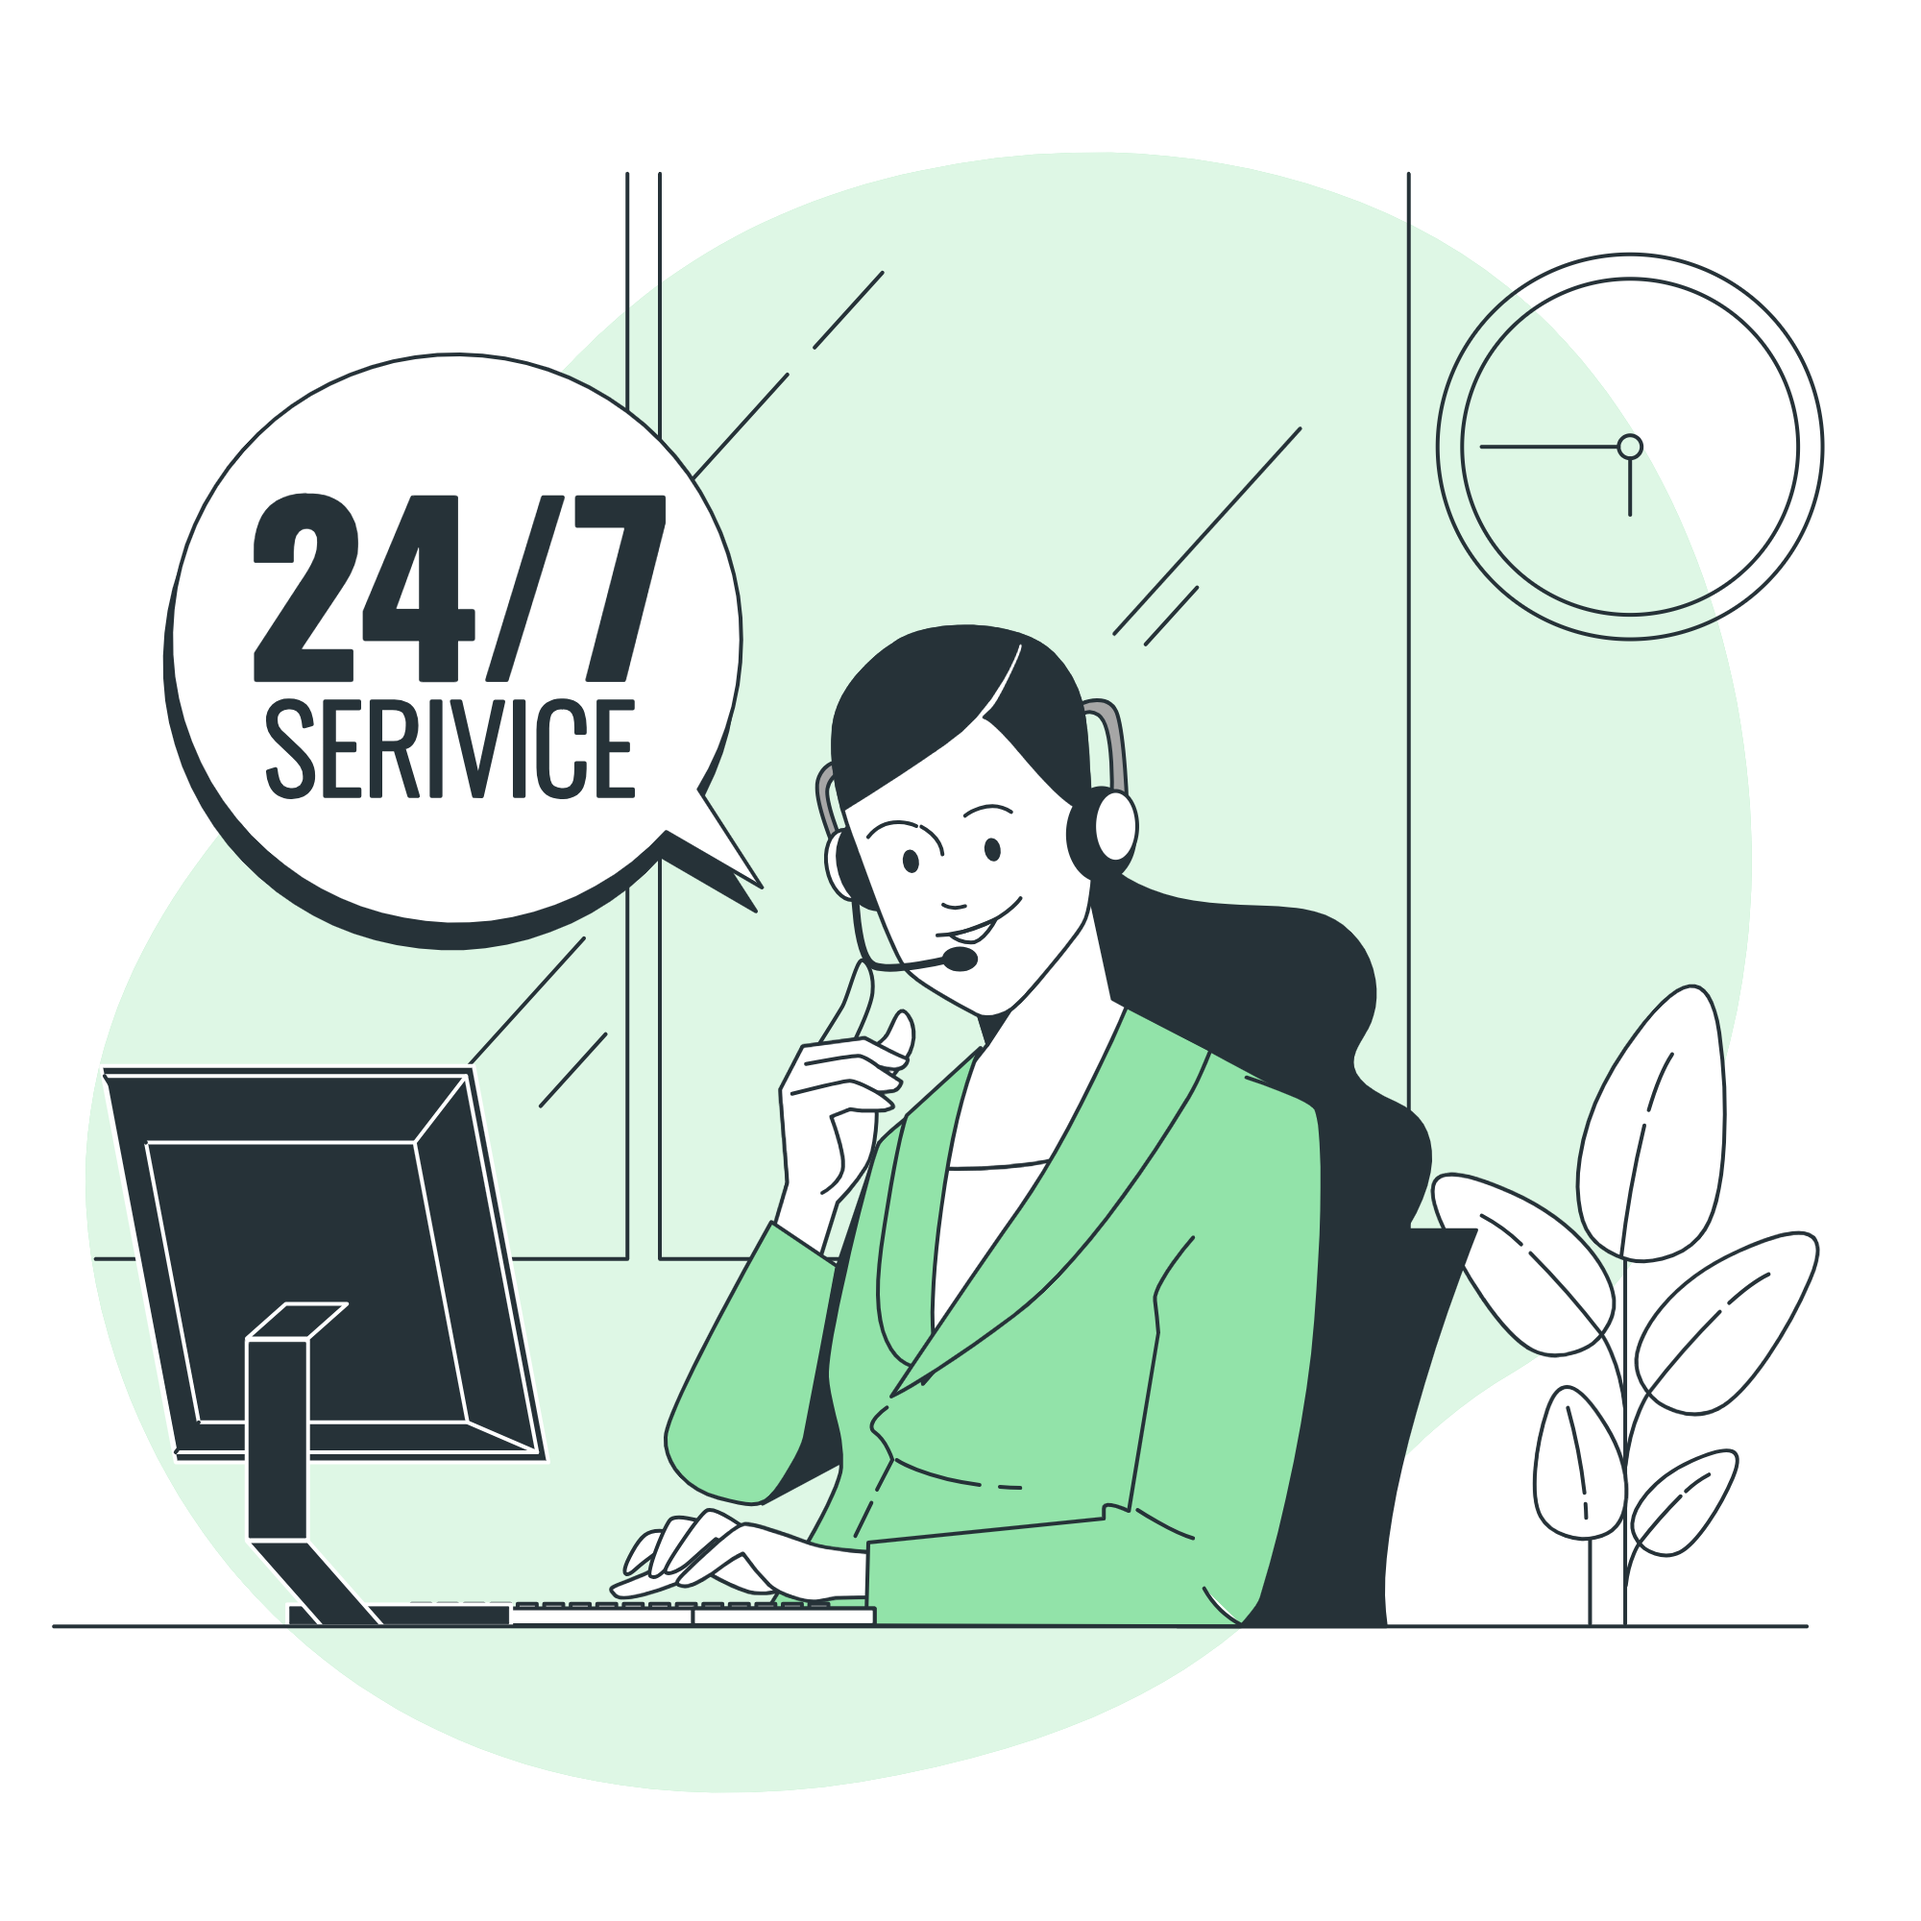
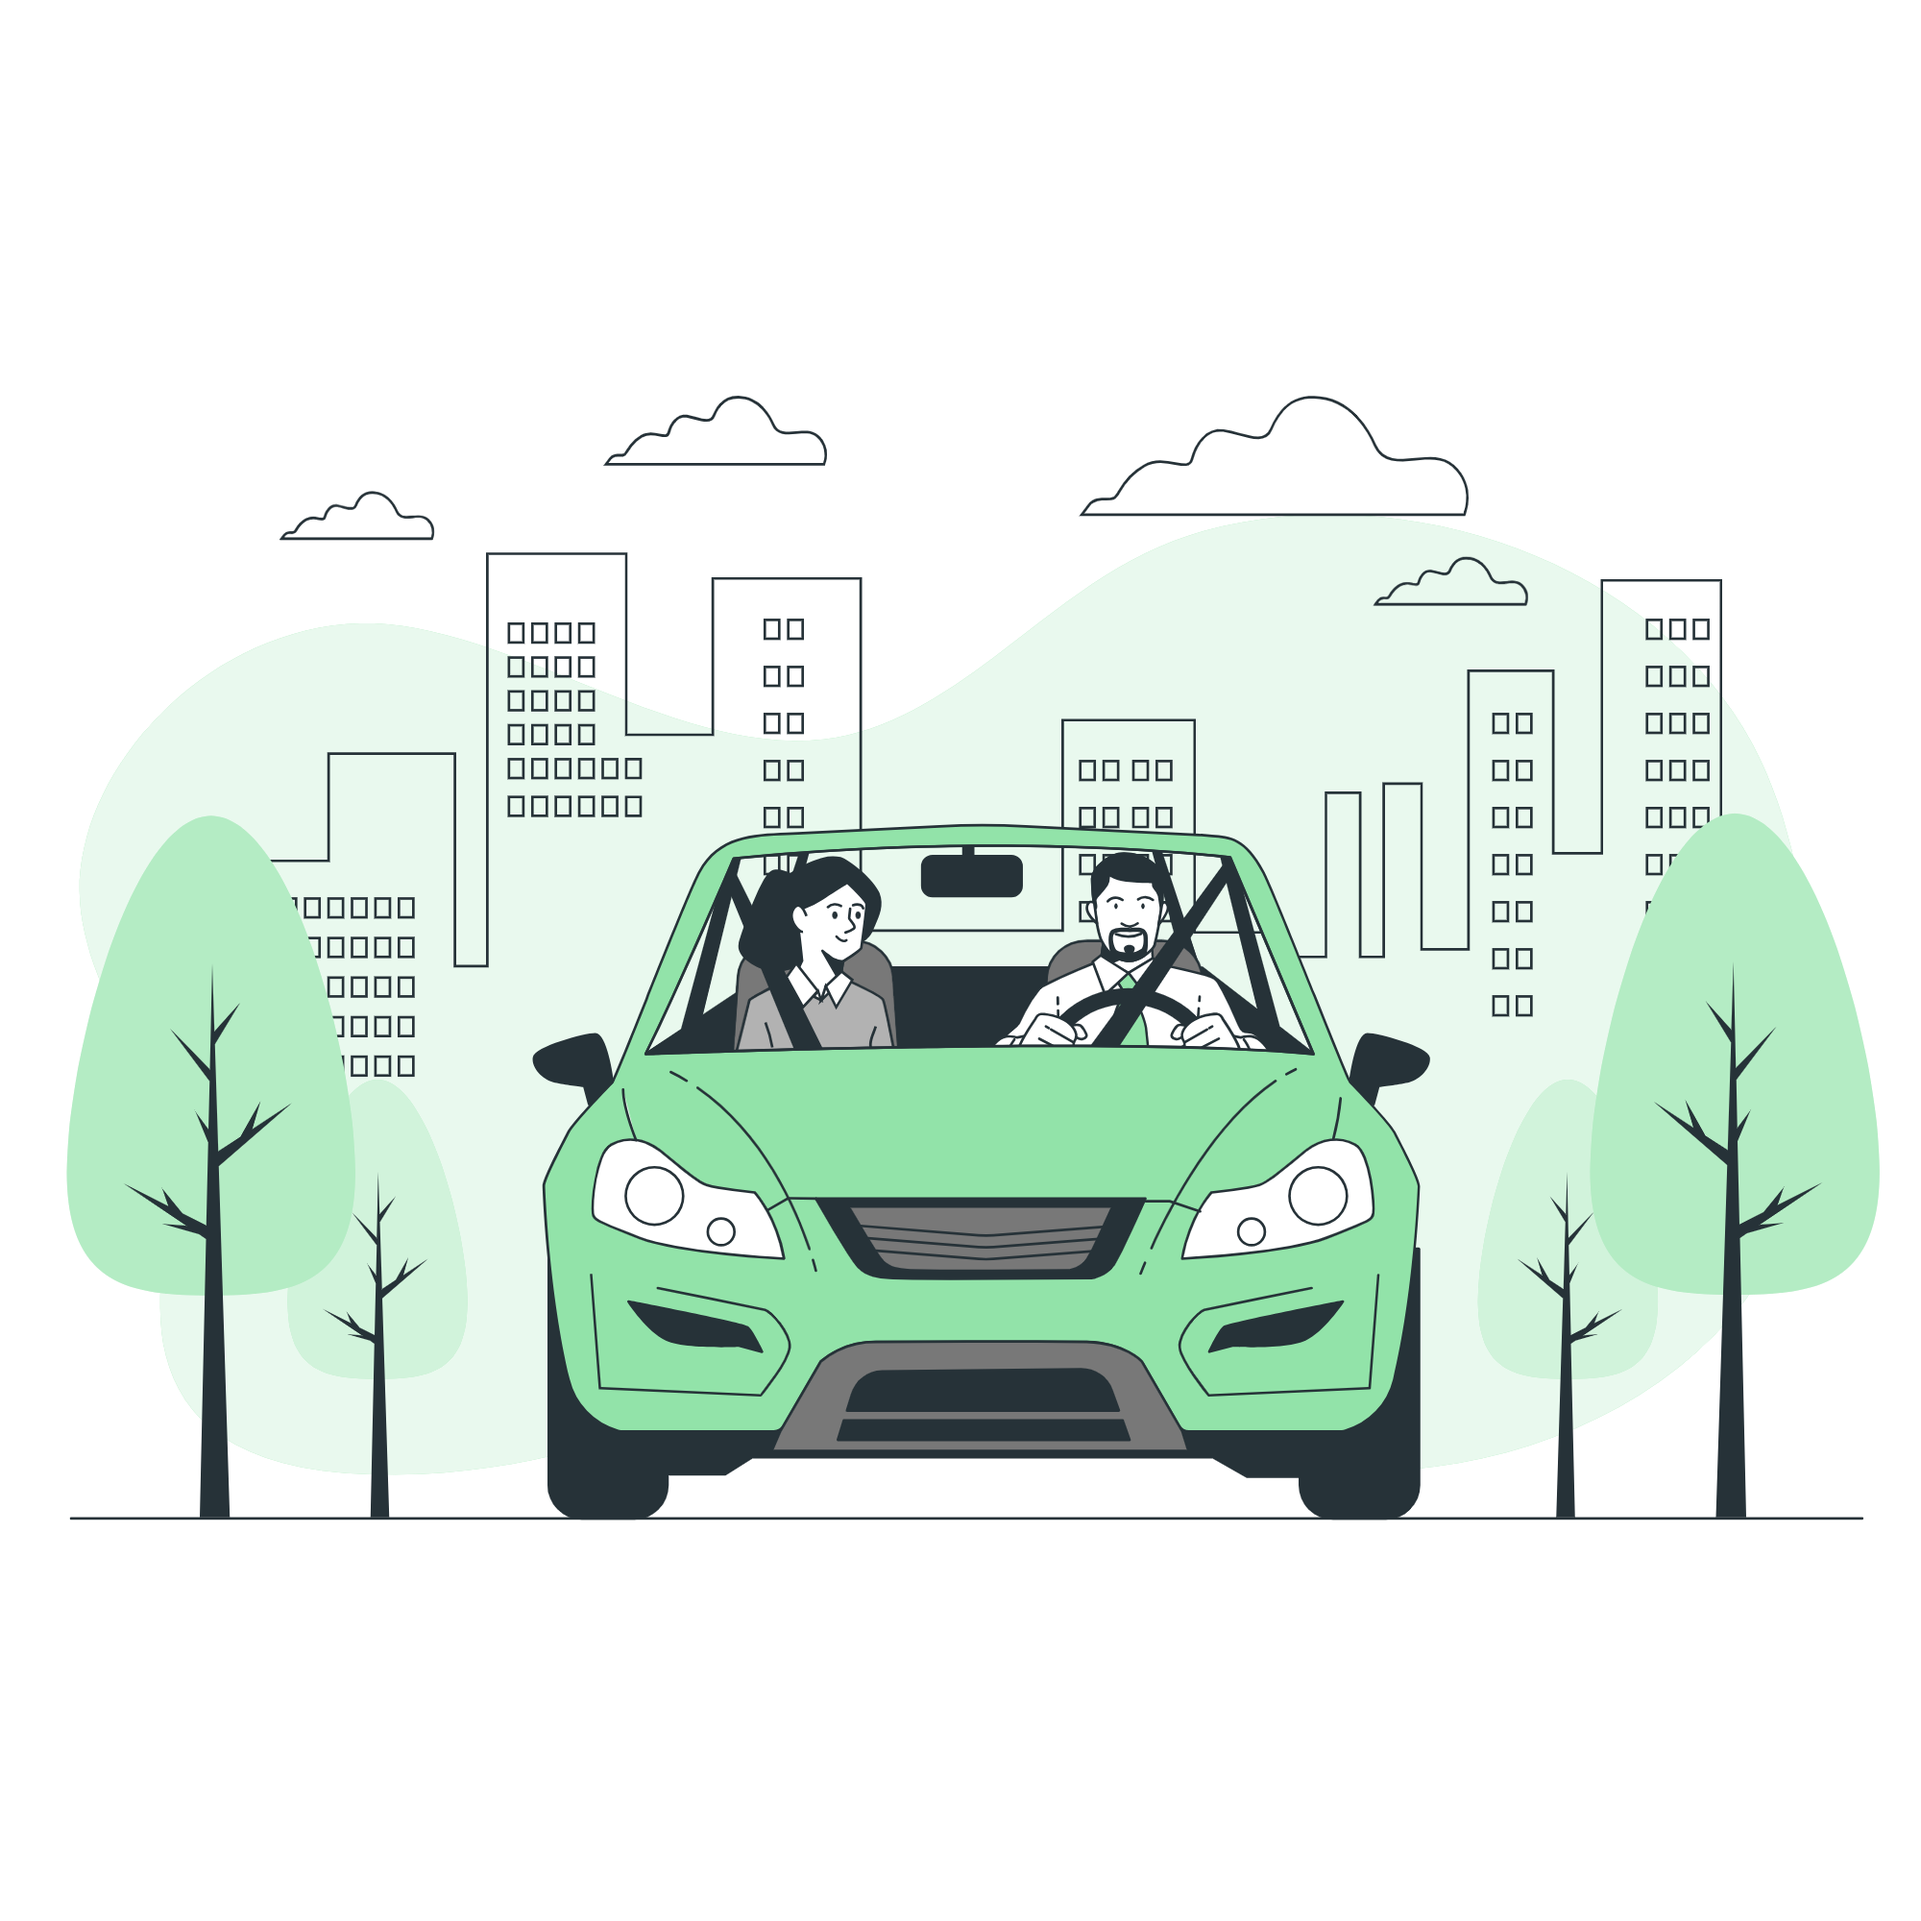
up version

diff --git a/index.html b/index.html
@@ -5,7 +5,7 @@
     <meta name="viewport" content="width=device-width, initial-scale=1.0, maximum-scale=1.0, user-scalable=no" />
     <title>Dịch Vụ Lái Xe Hộ 365</title>
     <link rel="stylesheet" href="style.css" />
-    <link rel="stylesheet" href="scroll-animations.css" />
+    <!-- <link rel="stylesheet" href="scroll-animations.css" /> -->
     <link rel="icon" href="images/favicon.ico" type="image/x-icon" />
   </head>
   <body>
@@ -78,20 +78,16 @@
 
           <!-- Right side - Content -->
           <div class="stats-text">
-            <h2 class="stats-title">Dịch Vụ Lái Xe Hộ 365</h2>
+            <h2 class="stats-title">Dịch Vụ Lái Xe Hộ 365 -  Giải Pháp An Toàn Cho Người Say</h2>
             <p class="stats-description">
-              Thuê tài xế chuyên nghiệp, phục vụ 24/7 cho mọi nhu cầu di chuyển
-              của bạn. Đặt lái xe ngay – nhận tài xế chỉ sau vài phút!
+              Đã uống rượu bia thì <b>không nên tự lái xe</b> - hãy để <b>Dịch Vụ Lái Xe Hộ 365</b> giúp bạn về nhà an toàn.  <br>
+ Chúng tôi cung cấp <b>dịch vụ lái xe hộ người say uy tín</b>, phục vụ <b>24/7</b> trên toàn khu vực, đảm bảo <b>an toàn - nhanh chóng - chuyên nghiệp</b>.  <br>
+Bạn chỉ cần gọi, tài xế sẽ có mặt sau vài phút để <b>lái xe hộ bạn về nhà, đi sự kiện, hay di chuyển công tác</b> . <br>
+ Với đội ngũ <b>tài xế giàu kinh nghiệm, tận tâm và đúng giờ</b>, chúng tôi mang đến sự an tâm tuyệt đối cho mọi chuyến đi. <br>
+<b>Dịch vụ lái xe cho người say - lựa chọn thông minh, an toàn và văn minh!</b>
+
             </p>
-            <ul class="stats-features">
-              <li>
-                Giải pháp lái xe an toàn & tiện lợi cho cá nhân và doanh nghiệp
-              </li>
-              <li>
-                Bạn cần tài xế đưa đón khách, đi sự kiện, về quê hay công tác?
-              </li>
-              <li>Mang đến dịch vụ chuyên nghiệp – tận tâm – đúng giờ.</li>
-            </ul>
+            
             <a href="tel:0838128365" class="btn-learn-more">Liên hệ ngay</a>
           </div>
         </div>
@@ -192,10 +188,15 @@
           <!-- Left side - Content -->
           <div class="conversion-text">
             <h2 class="conversion-title">
-              Hỗ trợ 24/7 Luôn sẵn sàng phục vụ bất kể ngày hay đêm.
+              Đội Ngũ Tài Xế Chuyên Nghiệp - Phục Vụ 24/7
+
             </h2>
             <p class="conversion-description">
-            Hỗ trợ & tư vấn 24/7: Chỉ cần cho chúng tôi biết điểm đi, điểm đến và thời gian mong muốn dịch vụ lái xe hộ chuyên nghiệp của chúng tôi sẽ sắp xếp tài xế phù hợp nhất cho bạn, bất kể ngày hay đêm.
+            Dịch Vụ Lái Xe Hộ 365 sở hữu <b>đội ngũ tài xế chuyên nghiệp, trên 10 năm kinh nghiệm</b>, được <b>đào tạo bài bản và chọn lọc kỹ lưỡng.</b>
+<b>Sẵn sàng phục vụ 24/7</b>, đảm bảo mang đến cho khách hàng  <b>trải nghiệm lái xe an toàn, chu đáo và đúng giờ.</b>
+Chỉ cần cung cấp <b>điểm đón - điểm đến - thời gian di chuyển</b>, hệ thống của chúng tôi sẽ nhanh chóng sắp xếp <b>tài xế phù hợp nhất</b>, đáp ứng mọi nhu cầu từ <b>lái xe hộ người say</b>, <b>đưa đón sự kiện đến di chuyển cá nhân và doanh nghiệp.</b>
+<b>“Lái xe hộ người say  an toàn hơn khi có tài xế chuyên nghiệp bên bạn”</b>
+
             </p>
             <button class="btn-explore">Gọi ngay</button>
           </div>

diff --git a/style.css b/style.css
@@ -920,7 +920,7 @@ body.menu-open {
 
 .feature-card {
   background: white;
-  padding: 40px 30px;
+  padding: 20px 30px;
   border-radius: 16px;
   box-shadow: 0 4px 20px rgba(0, 0, 0, 0.08);
   text-align: left;
